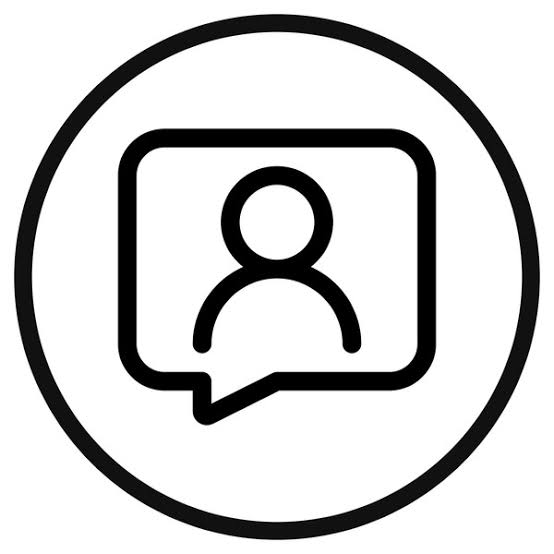
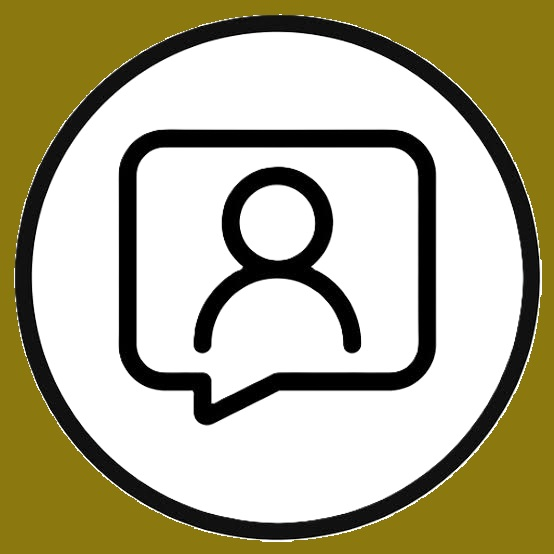
first commit

diff --git a/src/component/portfolio/potfolio.jsx b/src/component/portfolio/potfolio.jsx
@@ -22,7 +22,11 @@ function Works() {
             <img src={image4} alt="" className="worksimg" />
             <img src={image5} alt="" className="worksimg" />
             <img src={image6} alt="" className="worksimg" />
-            <img src={orange} alt="" className="worksimg" />
+            <div>
+              <Link to={"https://trown-delivery-wuqu.vercel.app"}></Link>
+              <img src={orange} alt="" className="worksimg" />
+
+            </div>
         </div>
         <button className="worksbtn"><Link to={"/myworks"}>See More</Link></button>
     </section>

diff --git a/src/component/nav/nav.css b/src/component/nav/nav.css
@@ -71,15 +71,22 @@
     transform: scaleX(1.1);
 }
 
-.desktopmemubuttom {
-    border: none;
-    background: #fff;
-    color: #000;
+
+.desktopmemubuttom{
     align-items: center;
+    background: rgb(139, 120, 14); 
+    padding: 0 1rem;
     display: flex;
     justify-content: center;
-    padding: 0 1rem;
+    color: #ffffff; 
+    border: none;
     border-radius: 2rem;
+    cursor: pointer;
+    transition: background-color 0.3s ease;
+}
+
+.desktopmemubuttom:hover{
+    background-color: #ac940a 
 }
 
 .navmenu{

diff --git a/src/component/intro/intro.css b/src/component/intro/intro.css
@@ -47,15 +47,21 @@
 }
 
 .btn{
-    background: #fff;
+    background: rgb(139, 120, 14); 
     margin: 1rem 0;
     padding: 0.75rem 1.5rem;
-    border: none;
-    color: #000;
-    border-radius: 2rem;
-    display: flex;
     align-items: center;
+    display: flex;
     flex-direction: row;
+    color: #ffffff; 
+    border: none;
+    border-radius: 2rem;
+    cursor: pointer;
+    transition: background-color 0.3s ease;
+}
+
+.btn:hover{
+    background-color: #ac940a 
 }
 
 .btnimg{

diff --git a/src/component/portfolio/portfolio.css b/src/component/portfolio/portfolio.css
@@ -38,13 +38,21 @@
     margin: 0.5rem;
 }
 
+
 .worksbtn{
-    padding: 0.5rem 2.5rem;
-    border: none;
-    background: #fff;
-    border-radius: 2rem;
+    background: #8b780e; 
+    margin: 1rem 0;
     font-size: 1rem;
-    margin: 3rem 0;
+    padding: 0.5rem 2.5rem;
+    color: #ffffff; 
+    border: none;
+    border-radius: 2rem;
+    cursor: pointer;
+    transition: background-color 0.3s ease;
+}
+
+.worksbtn:hover{
+    background-color: #ac940a 
 }
 
 .worksbtn a{
